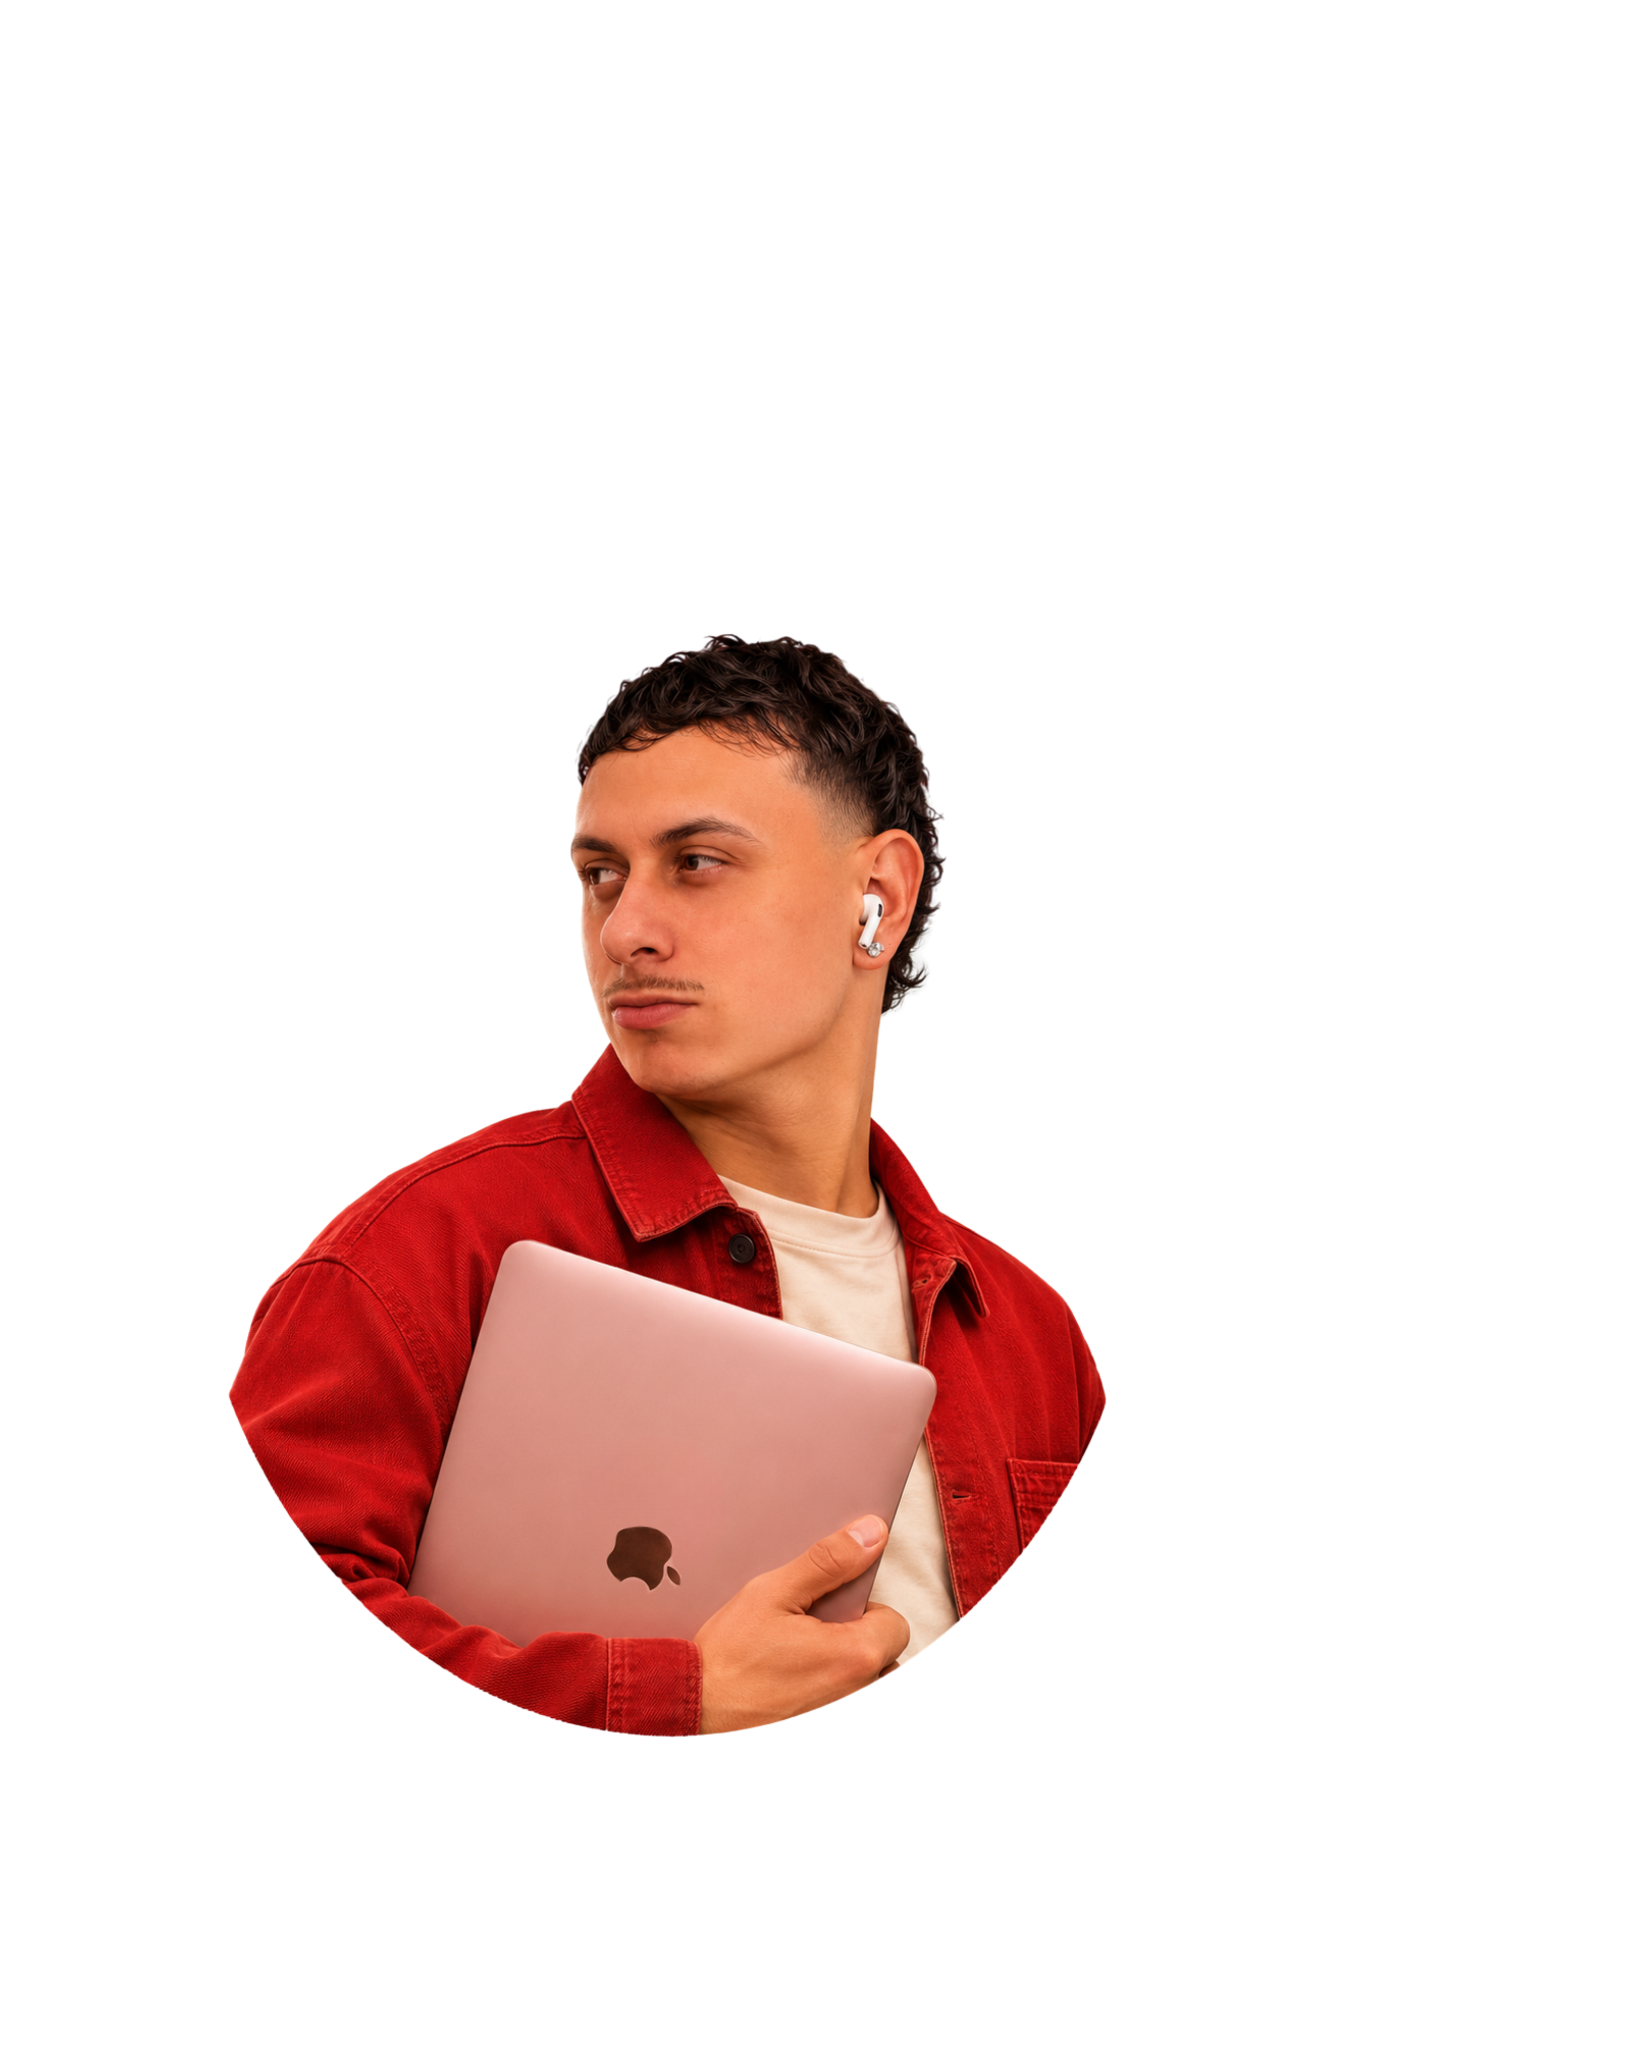
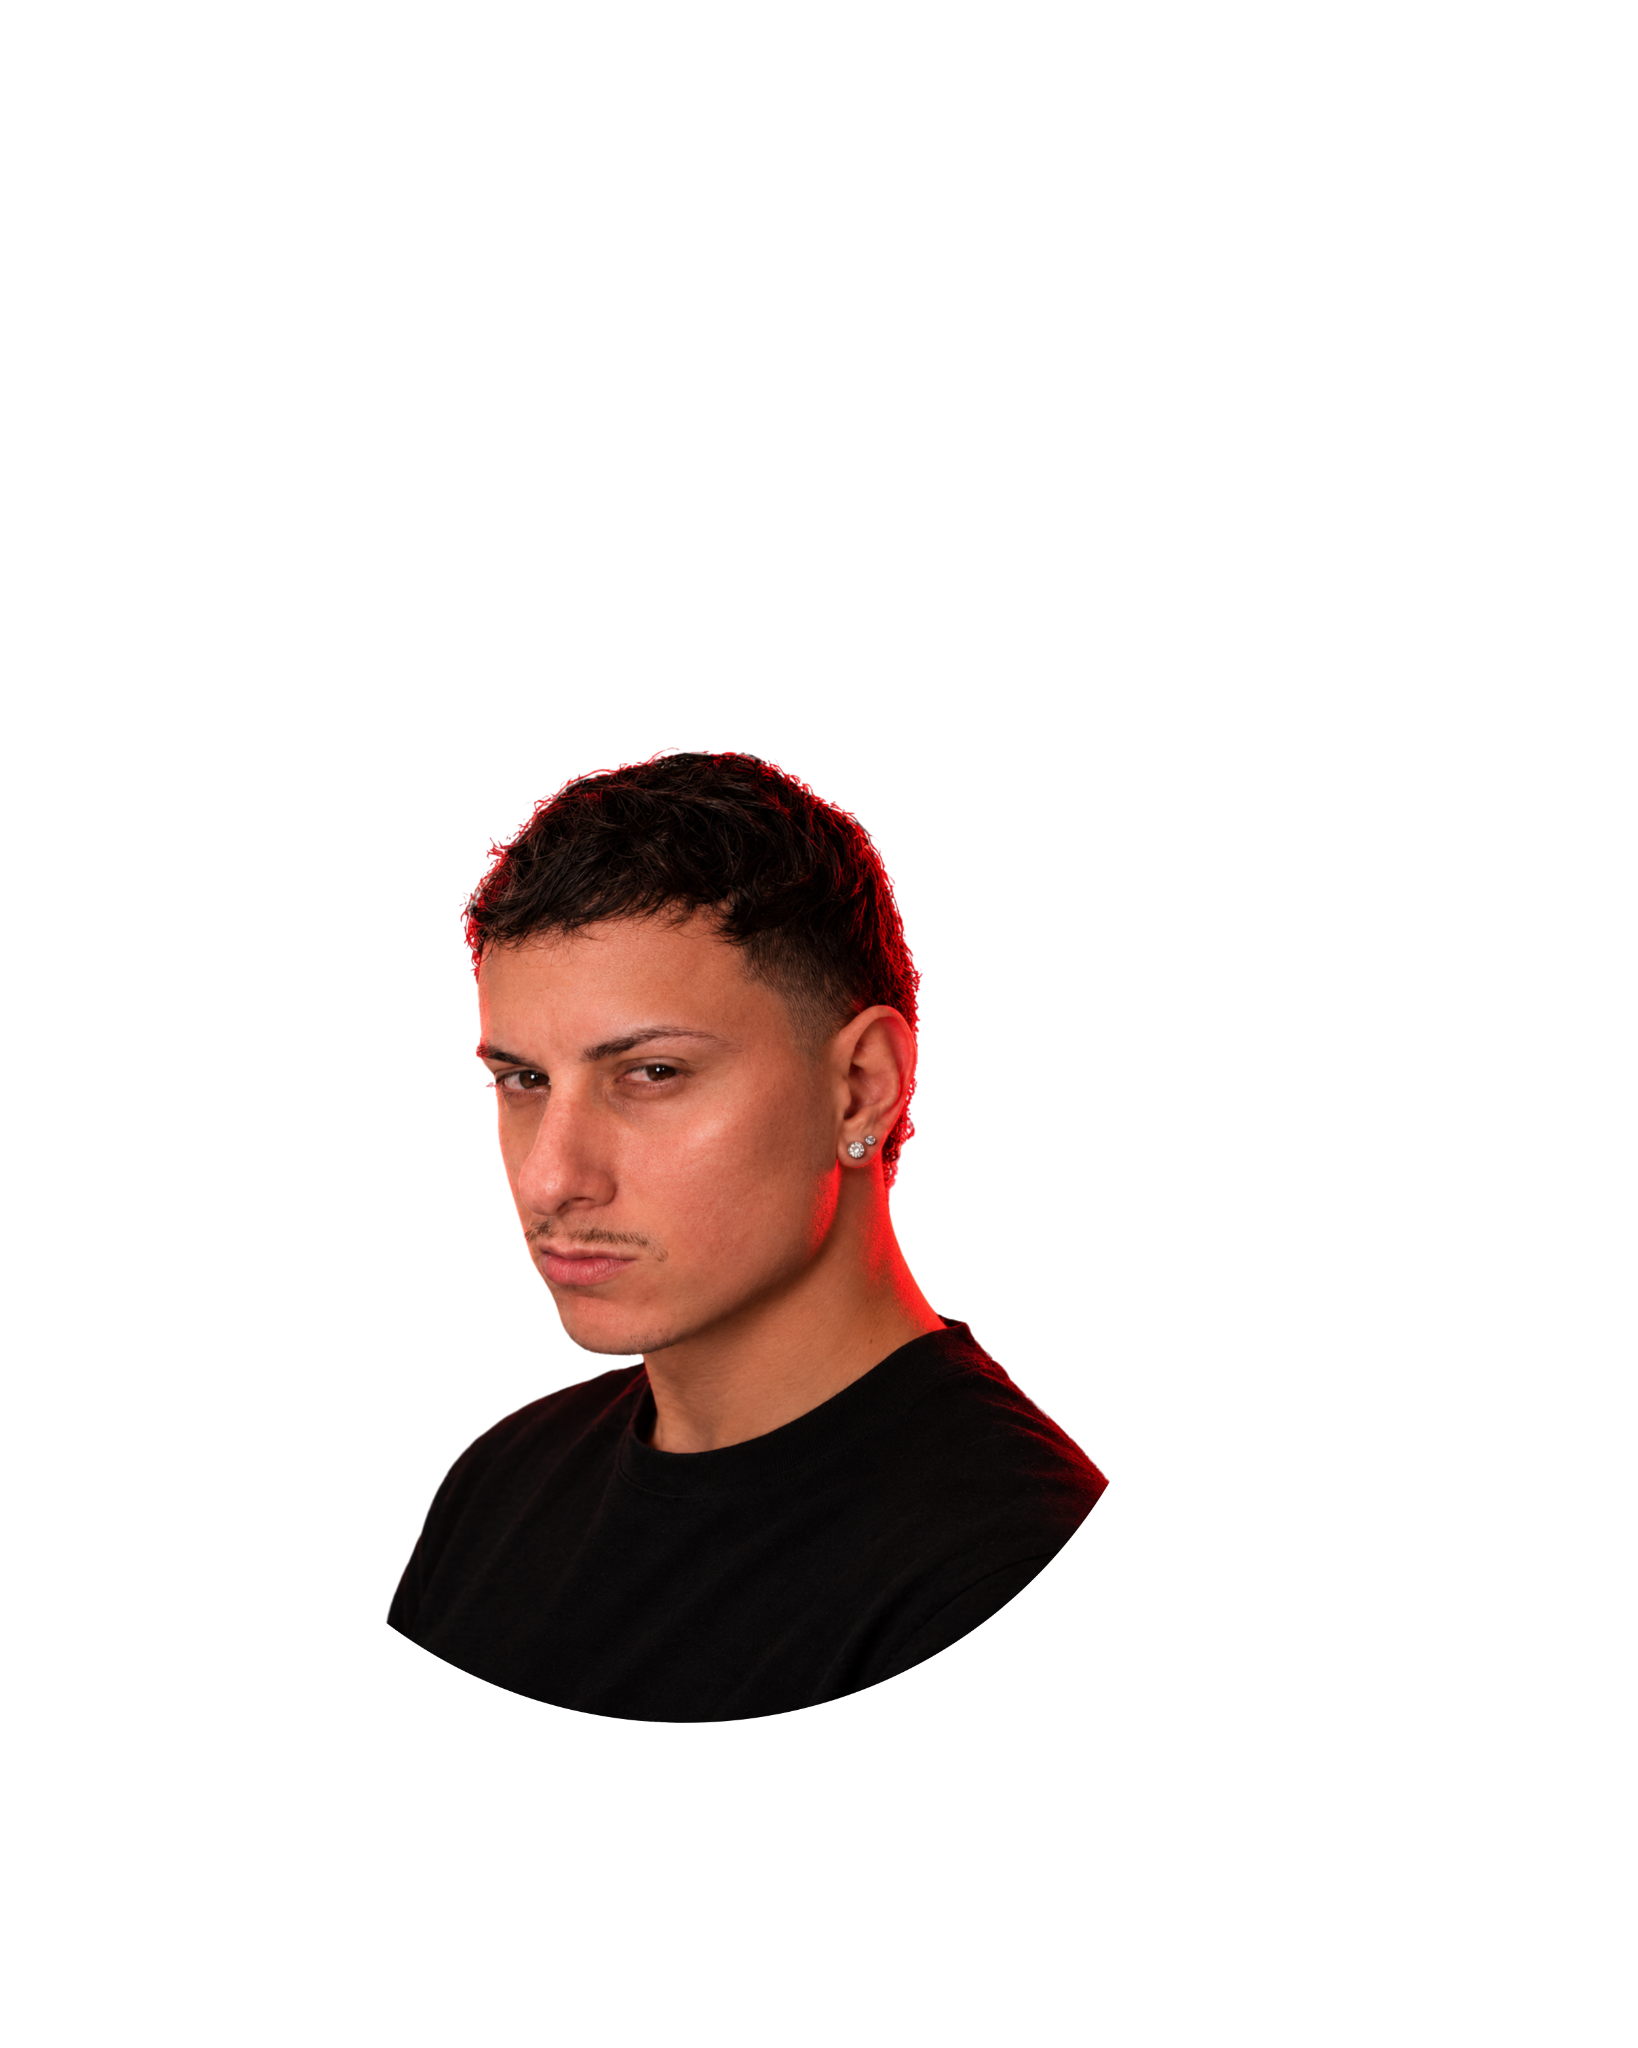
Replace home portrait with supplied black-shirt image preserving interaction

Changed region(s): [[0.1245, 0.3125, 0.685, 0.875]]

diff --git a/src/components/HeroPortrait.tsx b/src/components/HeroPortrait.tsx
@@ -17,7 +17,7 @@ export function HeroPortrait() {
   return <Link to="/sobre-mim" className="brand-portrait" aria-label="Conhecer Johw e sua trajetória em marketing" onPointerMove={move} onPointerLeave={reset} onPointerCancel={reset}>
     <span className="brand-portrait-glow" aria-hidden="true" />
     <span className="brand-portrait-art">
-      <img src="/images/johw-marketing.png" alt="Johw com jaqueta vermelha e notebook, em composição com o símbolo branco da ByJohwGimenes." width={1638} height={2048} decoding="async" fetchPriority="high" draggable={false} />
+      <img src="/images/johw-marketing.png?v=20261119" alt="Retrato de Johw com camiseta preta e iluminação vermelha, em composição com o símbolo branco da ByJohwGimenes." width={1638} height={2048} decoding="async" fetchPriority="high" draggable={false} />
     </span>
     <span className="brand-portrait-caption">Conheça quem está por trás da marca <span aria-hidden="true">↗</span></span>
   </Link>;
